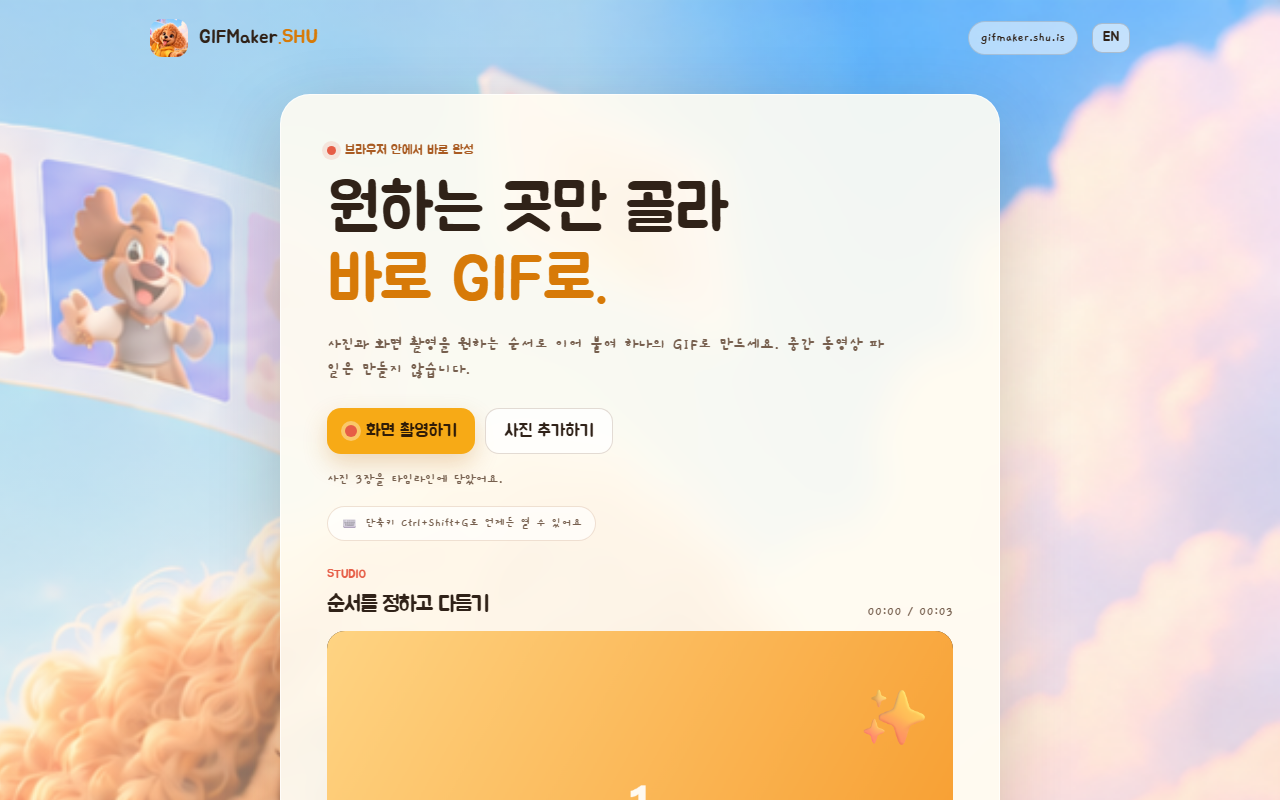
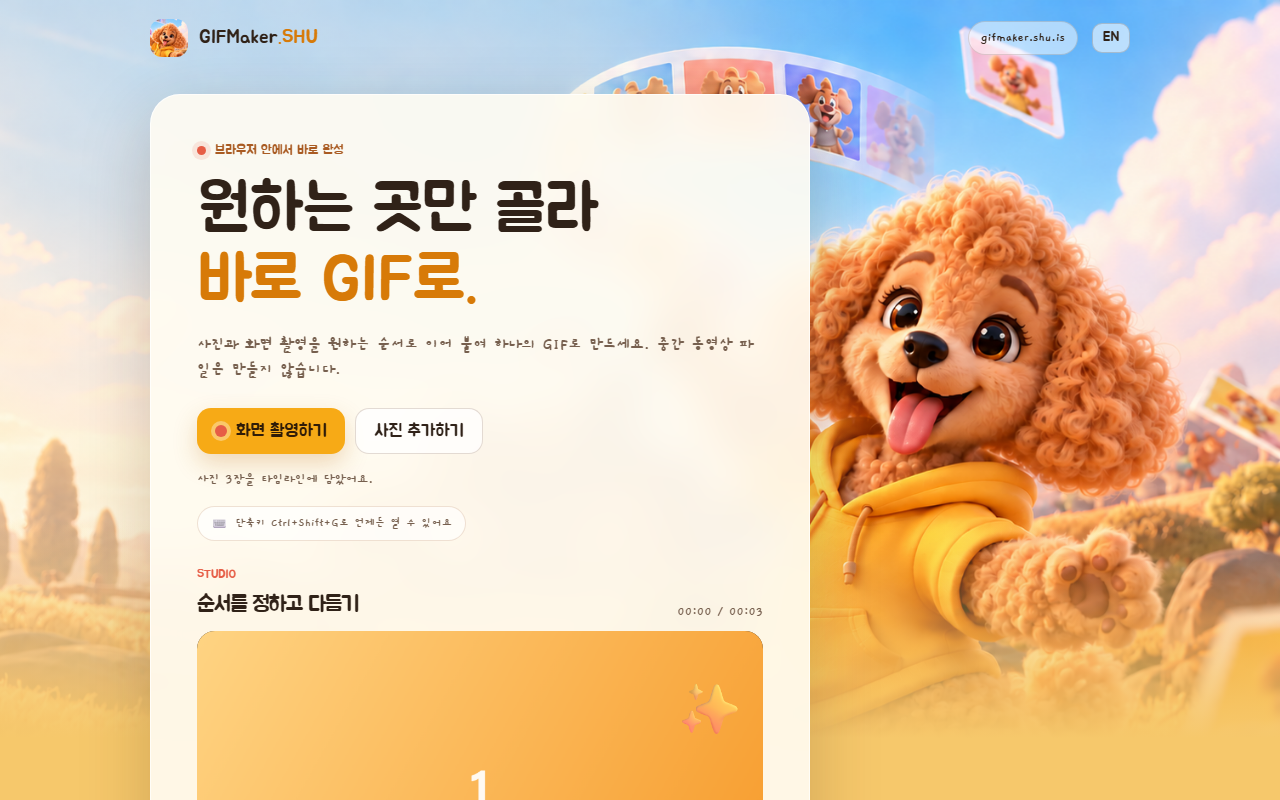
Left-align the extension card so the mascot stays visible; refresh store screenshots

diff --git a/extension/styles.css b/extension/styles.css
@@ -155,7 +155,7 @@ footer { width: min(1120px, calc(100% - 36px)); margin: 0 auto; padding: 20px 0 
 .extension-page .brand img { width: 38px; height: 38px; border-radius: 12px; object-fit: cover; }
 .extension-header-actions { display: flex; align-items: center; gap: 14px; font-weight: 800; font-size: .88rem; }
 .extension-main { width: min(980px, calc(100% - 32px)); margin: 18px auto 54px; }
-.extension-main .workspace-card { max-width: 720px; margin: 0 auto; }
+.extension-main .workspace-card { max-width: 660px; margin: 0; }
 .extension-header-actions a { padding: 6px 12px; border: 1px solid rgba(70,42,22,.16); border-radius: 999px; background: rgba(255,255,255,.5); font-size: .82rem; }
 .extension-header-actions a:hover { color: var(--sun-dark); border-color: rgba(215,122,8,.4); }
 .extension-page footer { width: min(980px, calc(100% - 32px)); margin-bottom: 26px; padding: 16px 22px 18px; border: 1px solid rgba(255,255,255,.7); border-radius: 18px; background: rgba(255,252,242,.82); backdrop-filter: blur(12px); }

diff --git a/docs/app.js b/docs/app.js
@@ -804,7 +804,8 @@ if ('modelContext' in document && document.modelContext?.registerTool) {
 // ?demo fills the timeline with sample scenes so the UI can be reviewed
 // or screenshotted without granting screen-capture permission.
 async function runDemo() {
-  if (!new URLSearchParams(location.search).has('demo')) return;
+  const params = new URLSearchParams(location.search);
+  if (!params.has('demo')) return;
   const make = (from, to, label) => new Promise((resolve) => {
     const canvas = document.createElement('canvas');
     canvas.width = 1280;
@@ -831,6 +832,8 @@ async function runDemo() {
   addOverlay('caption', '슈슈랑 GIF 만들기');
   addOverlay('sticker', '✨');
   setStatus(t().imageLoaded(scenes.length));
+  const scroll = Number(params.get('scroll'));
+  if (scroll) window.scrollTo(0, scroll);
 }
 
 applyLocale();

diff --git a/extension/app.js b/extension/app.js
@@ -804,7 +804,8 @@ if ('modelContext' in document && document.modelContext?.registerTool) {
 // ?demo fills the timeline with sample scenes so the UI can be reviewed
 // or screenshotted without granting screen-capture permission.
 async function runDemo() {
-  if (!new URLSearchParams(location.search).has('demo')) return;
+  const params = new URLSearchParams(location.search);
+  if (!params.has('demo')) return;
   const make = (from, to, label) => new Promise((resolve) => {
     const canvas = document.createElement('canvas');
     canvas.width = 1280;
@@ -831,6 +832,8 @@ async function runDemo() {
   addOverlay('caption', '슈슈랑 GIF 만들기');
   addOverlay('sticker', '✨');
   setStatus(t().imageLoaded(scenes.length));
+  const scroll = Number(params.get('scroll'));
+  if (scroll) window.scrollTo(0, scroll);
 }
 
 applyLocale();
